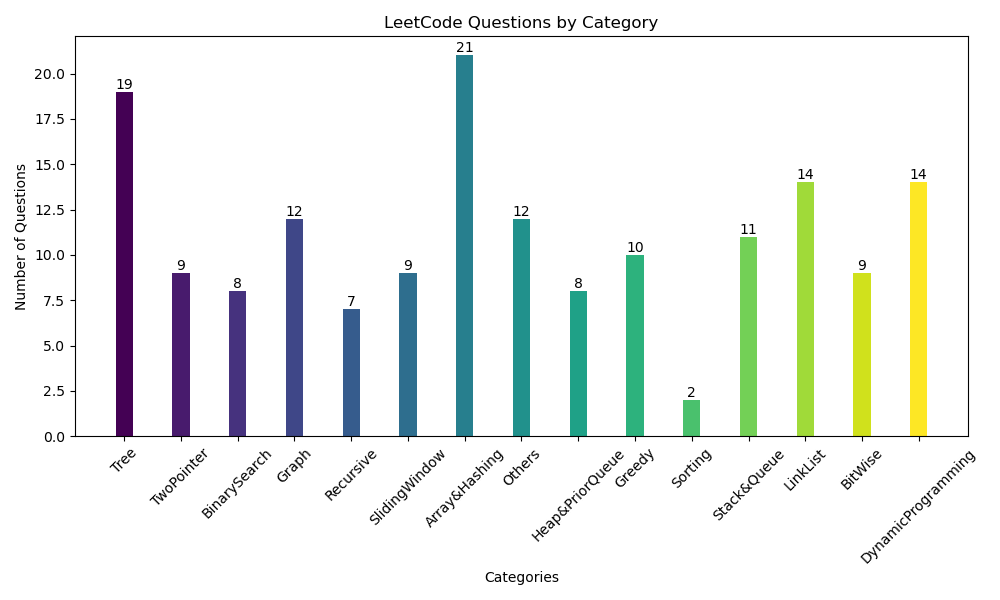
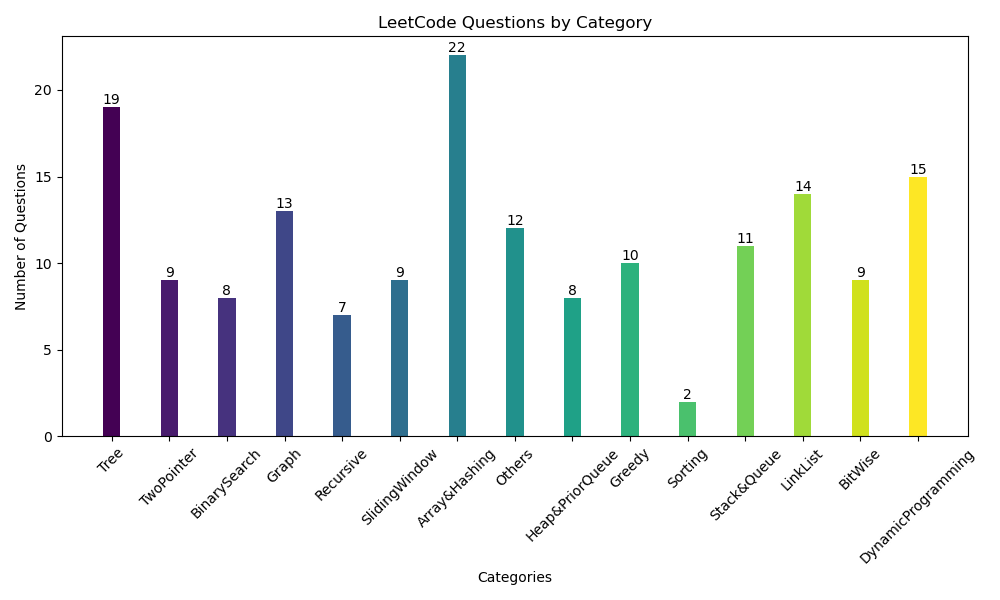
pratices DP, DFS

diff --git a/Graph/547. Number of Provinces.cpp b/Graph/547. Number of Provinces.cpp
@@ -1,0 +1,76 @@
+/*
+    DFS, 先建立graph, unordered_set紀錄是否走過, 不停dfs直到所有node都visit
+*/
+class Solution {
+  public:
+	int findCircleNum(vector<vector<int>> &isConnected) {
+		// create graph
+		int num_node = isConnected.size();
+		vector<vector<int>> graph(isConnected.size());
+		unordered_set<int> visit;
+		for (int i = 0; i < isConnected.size(); ++i) {
+			for (int j = 0; j < isConnected[i].size(); ++j) {
+				if (i != j && isConnected[i][j] == 1)
+					graph[i].push_back(j);
+			}
+		}
+		int num_provinces = 0;
+		// dfs untils all node visit, if there exist nodes not visit, there must
+		// be extra provinces + 1
+		while (visit.size() != num_node) {
+			for (int i = 0; i < num_node; ++i) {
+				// not visit
+				if (visit.find(i) == visit.end()) {
+					dfs(graph, visit, i);
+					break;
+				}
+			}
+
+			++num_provinces;
+		}
+		return num_provinces;
+	}
+	void dfs(vector<vector<int>> &graph, unordered_set<int> &visit, int node) {
+		if (visit.find(node) != visit.end())
+			return;
+		visit.insert(node);
+		for (int i = 0; i < graph[node].size(); ++i) {
+			int nei = graph[node][i];
+			dfs(graph, visit, nei);
+		}
+	}
+};
+/*
+    Union-Find Solution
+*/
+class Solution {
+  public:
+	int findCircleNum(vector<vector<int>> &isConnected) {
+		int n = isConnected.size();
+		vector<int> parent(n);
+		iota(parent.begin(), parent.end(), 0);
+
+		function<int(int)> find = [&](int x) {
+			if (parent[x] != x)
+				parent[x] = find(parent[x]);
+			return parent[x];
+		};
+
+		auto unite = [&](int x, int y) {
+			int px = find(x), py = find(y);
+			if (px != py)
+				parent[px] = py;
+		};
+
+		for (int i = 0; i < n; ++i)
+			for (int j = i + 1; j < n; ++j)
+				if (isConnected[i][j])
+					unite(i, j);
+
+		unordered_set<int> unique_provinces;
+		for (int i = 0; i < n; ++i)
+			unique_provinces.insert(find(i));
+
+		return unique_provinces.size();
+	}
+};

diff --git a/DynamicProgramming/494. Target Sum.cpp b/DynamicProgramming/494. Target Sum.cpp
@@ -1,0 +1,37 @@
+// hint
+/*
+    recursive 去算目前num[i]為正or負情況下sum(nums)是否為target
+
+    count = sumNumbers(-num[i], i + 1) + sumNumbers(num[i], i + 1);
+
+    talbe[i(index position)][current_sum] = count;
+
+    ** 注意sum可能<0需要offset去轉移到1000~2000
+*/
+class Solution {
+  public:
+	int offset = 1000;
+	int findTargetSumWays(vector<int> &nums, int target) {
+		int n = nums.size();
+		vector<vector<int>> table(n, vector<int>(2002, -1));
+
+		return sumNumbers(nums, table, 0, 0, target);
+	}
+	int sumNumbers(vector<int> &nums, vector<vector<int>> &table, int i,
+	               int sum, int target) {
+		// sum 可能 < 0, table會runtime error, 將<0的值bias到1000~2000儲存
+		if (i == nums.size()) {
+			return sum == target ? 1 : 0;
+		}
+		int sum_idx = sum < 0 ? offset + abs(sum) : sum;
+
+		if (table[i][sum_idx] != -1)
+			return table[i][sum_idx];
+
+		table[i][sum_idx] =
+		    sumNumbers(nums, table, i + 1, sum + nums[i], target) +
+		    sumNumbers(nums, table, i + 1, sum - nums[i], target);
+
+		return table[i][sum_idx];
+	}
+};

diff --git a/Array&Hashing/128. Longest Consecutive Sequence.cpp b/Array&Hashing/128. Longest Consecutive Sequence.cpp
@@ -1,0 +1,26 @@
+/*
+    1. sort, 然後traverse, 每次都紀錄目前consecutive 次數, O(nlogn)
+*/
+
+class Solution {
+  public:
+	int longestConsecutive(vector<int> &nums) {
+		if (nums.size() == 0)
+			return 0;
+		sort(nums.begin(), nums.end());
+		int max_count = 0;
+		int cur = 1;
+		for (int i = 1; i < nums.size(); ++i) {
+			if (nums[i] == (nums[i - 1] + 1))
+				++cur;
+			else if (nums[i] == nums[i - 1])
+				continue;
+			else {
+				max_count = max(max_count, cur);
+				cur = 1;
+			}
+		}
+		max_count = max(max_count, cur);
+		return max_count;
+	}
+};

diff --git a/Array&Hashing/1128. Number of Equivalent Domino Pairs.cpp b/Array&Hashing/1128. Number of Equivalent Domino Pairs.cpp
@@ -1,9 +1,10 @@
+// proficient
 /*
     1. 暴力法 O(n^2)
     2. sort dominoes and find same pair O(nlogn)
     2. hashtable, 因為domino只有1~9, 所以我們可以透過 pair去組成key(小的在前面)
         然後每次找到相同的key都去加總目前hashmap裡面相同key
-   pair的數量(可配對數量)
+   pair的數量->可配對數量
 */
 class Solution {
   public:

diff --git a/README.md b/README.md
@@ -1,8 +1,8 @@
 # LeetCode Problems
 
 ❌  can't resolve without solution: 12
-📝  can't resolve without hint: 133
-✅  resolve by self: 20
+📝  can't resolve without hint: 135
+✅  resolve by self: 21
 ## Tree
 - ❌ 105. Construct Binary Tree from Preorder and Inorder Traversal
 - 📝 PrefixTree
@@ -47,6 +47,7 @@
 
 ## Graph
 - ❌ islandTreasure
+- 📝 547. Number of Provinces
 - 📝 GraphValidTree
 - 📝 cloneGraph
 - 📝 SurroundedRegions
@@ -85,6 +86,7 @@
 - 📝 concateArr
 - 📝 longCommonStr
 - 📝 CountGoodTriple
+- 📝 128. Longest Consecutive Sequence
 - 📝 ValidAnagram
 - 📝 removeElement
 - 📝 2sum
@@ -96,11 +98,11 @@
 - 📝 169.majorityElement
 - 📝 hashtable
 - 📝 DuplicateArray
-- 📝 1128. Number of Equivalent Domino Pairs
 - 📝 anagramGroup
 - 📝 ProductsArrayExceptSelf
 - ✅ valideSudoku
 - ✅ countEqualAndDivisiblePairs
+- ✅ 1128. Number of Equivalent Domino Pairs
 
 ## Others
 - ❌ 2845.CountofInterestingSubarrays
@@ -191,6 +193,7 @@
 - 📝 91.DecodeStr
 - 📝 LongestIncreasingPathMatrix
 - 📝 houseRobber2
+- 📝 494. Target Sum
 - 📝 climbStair
 - 📝 518oinChange2
 - 📝 647.PalindromicSubstrings
@@ -199,7 +202,7 @@
 - ✅ uniquePath
 
 ## Statistics
-Current total questions: 165
+Current total questions: 168
 
 <img src="chart.png" alt="questions bar chart" width="500">
 

diff --git a/DynamicProgramming/ReadMe.md b/DynamicProgramming/ReadMe.md
@@ -1,5 +1,22 @@
 # Dynamic Programming
 
+## Review
+
+- [ ] ❌ 5.LPS
+- [5/3 ] coinChange
+- [ ] LCS
+- [ ] houseRobber
+- [ ] PartitionEqualSubsetSum
+- [ ] 91.DecodeStr
+- [ ] LongestIncreasingPathMatrix
+- [ ] houseRobber2
+- [ ] climbStair
+- [ ] 518oinChange2
+- [ ] 647.PalindromicSubstrings
+- [ ] 2338.CountTheNumberOfIdealArrays
+- [ ] minCostClimb
+- [ ] uniquePath
+
 ## Top Down
 
 1. 基本跟 recursive 相關聯

diff --git a/Graph/README.md b/Graph/README.md
@@ -1,0 +1,19 @@
+# Algorithm
+
+## DFS
+
+## BFS
+
+rottingFruit
+
+### kahn's algorithm
+
+207. Course Schedule
+
+## Union Find
+
+547. Number of Provinces
+
+## Dijkstra's algorithm
+
+743. NetworkDelayTime.cpp
